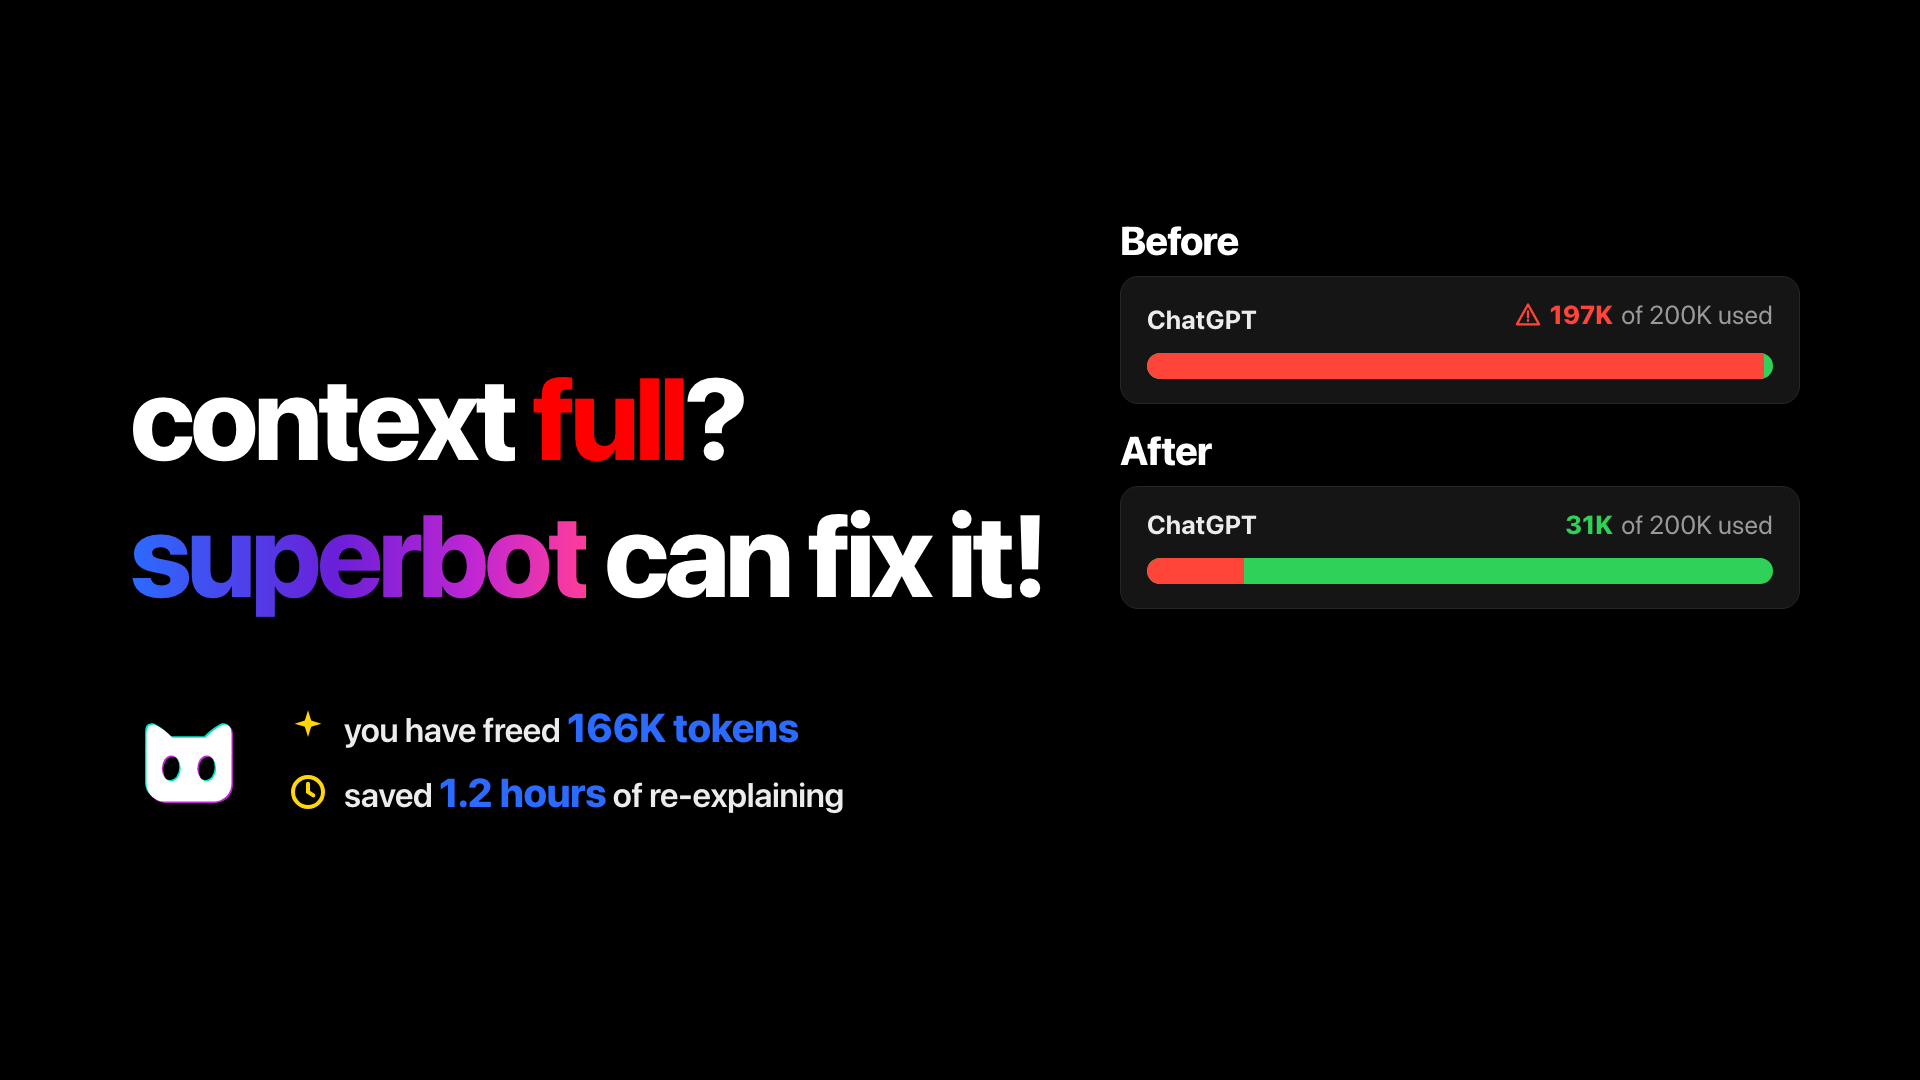
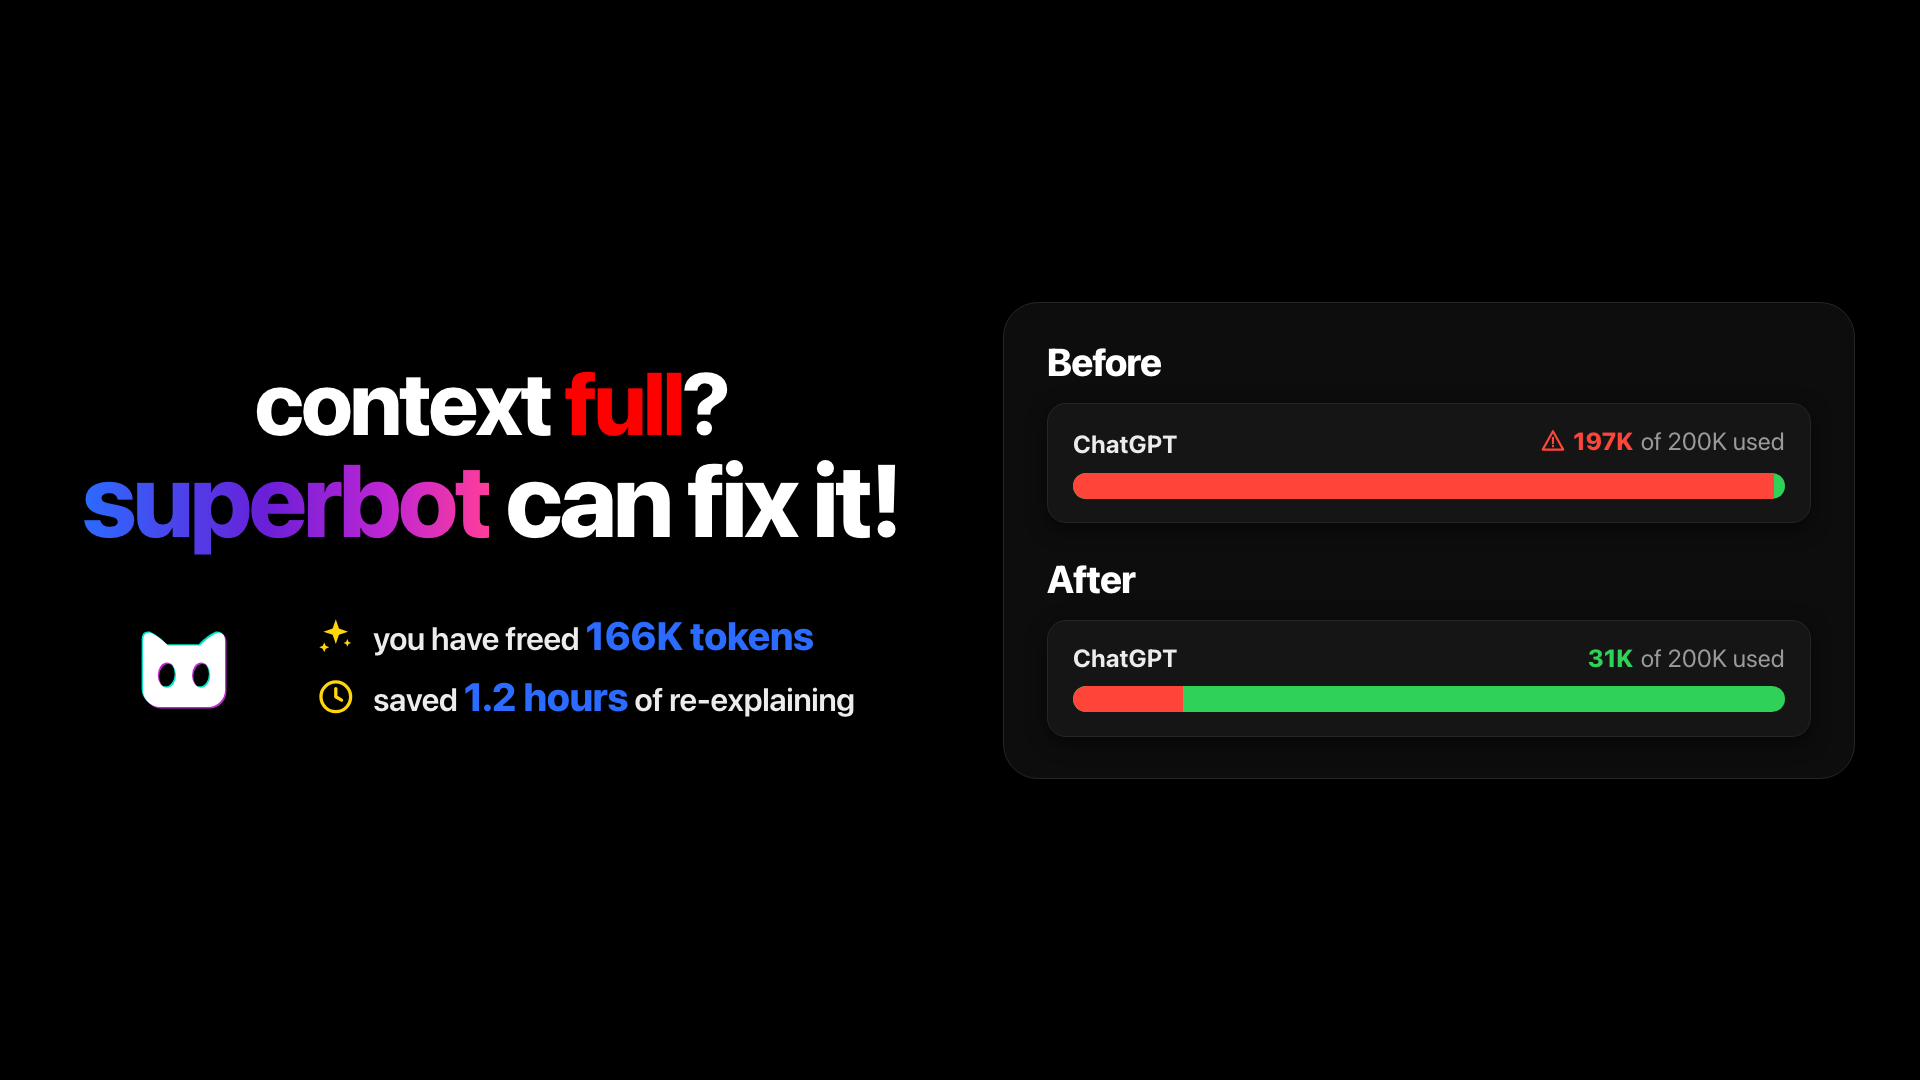
context-full-reveal animation: pixel-match the resting frame to the static context-full-poster
Rebuilt headline/card/stats markup and CSS to mirror ads-src/context-storage's own DOM structure and em-based formulas exactly, positioned from coordinates measured off the live poster (not approximated). Fixed two CSS specificity bugs found along the way (#l2's font-size losing to a compound selector; a nested flex>grid intrinsic-sizing quirk in the stats list) and added a scaled --u for the narrow-ratio stacked layout so the card doesn't overflow at 4:5/1:1/4:3. Verified: mean pixel diff against the static asset dropped from 4.7 to 0.57 (residual is sub-pixel anti-aliasing only).

diff --git a/animations/context-full-reveal-superbot-2f8b16e9/index.html b/animations/context-full-reveal-superbot-2f8b16e9/index.html
@@ -20,6 +20,10 @@
   --ui: "SF Pro Rounded", "SF Pro Display", -apple-system, system-ui, "Segoe UI", sans-serif;
   --storm-1: #2b6bff; --storm-2: #6a1fd8; --storm-3: #c026d3; --storm-4: #ff3d9a;
   --storm-x: linear-gradient(90deg, var(--storm-1) 0%, var(--storm-2) 45%, var(--storm-3) 75%, var(--storm-4) 100%);
+  /* the card/stats base unit: ads-src/context-storage's own --u resolves to
+     this exact value at 1920x1080 (measured off the live poster), so every
+     em below reproduces the poster's proportions pixel-for-pixel */
+  --u: 31.68px;
 }
 * { box-sizing: border-box; }
 html, body { margin: 0; height: 100%; background: #000; overflow: hidden; }
@@ -30,48 +34,70 @@ body { font-family: var(--ui); color: var(--fg); -webkit-font-smoothing: antiali
 /* the camera: one transform, computed per frame from story time */
 #cam { position: absolute; inset: 0; transform-origin: 0 0; will-change: transform; }
 
-/* ---------- headline (left) ---------- */
-#headline { position: absolute; left: 130px; top: 356px; width: 860px; }
-#headline .line { font-weight: 800; letter-spacing: -.04em; line-height: 1.04; font-size: 116px; color: #fff; white-space: nowrap; }
+/* ---------- headline (left) ----------
+   Position, font sizes and letter-spacing are the static context-full-poster's
+   own resolved values at 16:9 (measured off its live DOM: ads-src/context-storage,
+   fit.js sets .head's font-size to 88.31px at this frame), not approximated —
+   so the animation's resting frame is pixel-identical to the poster. */
+#headline { position: absolute; left: 65px; top: 357px; width: 852px; text-align: center; }
+#headline .line { width: max-content; margin: 0 auto; font-weight: 800; letter-spacing: -.035em; line-height: 1.02; color: #fff; white-space: nowrap; }
 #headline .pain { color: var(--pain); }
 #headline .brand { background-image: var(--storm-x); -webkit-background-clip: text; background-clip: text; color: transparent; }
-#l2 { margin-top: 16px; }
+#l1 { font-size: 88.31px; }
+#l2 { font-size: 102.44px; }
 
 /* ---------- stats row (left, below headline) ---------- */
-#statsrow { position: absolute; left: 130px; top: 700px; width: 760px; display: flex; align-items: center; gap: 40px; }
-#statsrow .face { width: 118px; height: 118px; flex: none; }
-#statsrow ul { list-style: none; margin: 0; padding: 0; display: grid; row-gap: 18px; }
-#statsrow li { display: flex; align-items: center; gap: 16px; font-size: 34px; font-weight: 600; color: var(--fg); letter-spacing: -.02em; }
-#statsrow .ico { width: 40px; height: 40px; flex: none; color: #ffd60a; display: grid; place-items: center; }
+#statsrow { position: absolute; left: 65px; top: 609px; width: 852px; display: flex; align-items: center; justify-content: center; gap: calc(var(--u) * 1.1); font-size: var(--u); }
+#statsrow .face { width: 3.6em; height: auto; flex: none; }
+/* the poster's own .stats ul (nested flex>grid) resolves 40px wider than its
+   li content and right-aligns them — a flex/grid intrinsic-sizing quirk of
+   its exact nesting, reproduced here directly (measured off the live poster)
+   rather than re-derived, since it's what actually ships */
+#statsrow ul { list-style: none; margin: 0; padding: 0; display: grid; row-gap: .5em; width: 578.5px; justify-content: end; }
+#statsrow li { display: flex; align-items: center; gap: .55em; line-height: 1.15; }
+#statsrow .ico { width: 1.25em; height: 1.25em; flex: none; color: #ffd60a; display: grid; place-items: center; }
 #statsrow .ico svg { width: 100%; height: 100%; }
 #statsrow .ico svg:not([fill]) { fill: currentColor; }
-#statsrow .big { font-weight: 800; color: var(--blue); font-size: 1.18em; }
+#statsrow .txt { font-size: 1.02em; font-weight: 600; color: var(--fg); letter-spacing: -.02em; white-space: nowrap; }
+#statsrow .big { font-weight: 800; color: var(--blue); font-size: 1.22em; }
+#statsrow .tail { color: var(--fg); }
 
-/* ---------- the before/after card (right) ---------- */
-#cardwrap { position: absolute; left: 1120px; top: 220px; width: 680px; display: grid; row-gap: 26px; }
-.card-half h2 { font-size: 40px; font-weight: 800; letter-spacing: -.03em; line-height: 1; margin: 0 0 16px; color: #fff; }
-.meter { background: #151515; border: 1px solid var(--line); border-radius: 18px; padding: 22px 26px 24px; box-shadow: 0 6px 22px rgba(0,0,0,.55); }
-.meta { display: flex; align-items: baseline; justify-content: space-between; gap: 20px; font-size: 26px; line-height: 1.2; margin-bottom: 18px; }
-.who { font-weight: 700; color: var(--fg); white-space: nowrap; }
-.used { color: var(--muted); white-space: nowrap; display: inline-flex; align-items: center; gap: 8px; }
-.used b { font-weight: 800; }
-#before-meter .used b { color: var(--red); }
-#after-meter .used b { color: var(--green); }
-.warn-ico { width: 28px; height: 28px; color: var(--red); opacity: 0; transition: none; }
-.bar { height: 26px; border-radius: 13px; overflow: hidden; background: var(--green); }
-.bar i { display: block; height: 100%; width: 0%; background: var(--red); border-radius: 13px 0 0 13px; }
-.note { margin-top: 14px; font-size: 22px; color: var(--muted); line-height: 1.2; opacity: 0; }
+/* ---------- the before/after card (right) ----------
+   Same principle: position and every internal em are the poster's own
+   .card/.half/.meter rules at its resolved --u, not hand-tuned numbers. */
+#cardwrap { position: absolute; left: 1003px; top: 302px; width: 852px; font-size: var(--u); background: var(--card); border: 1px solid var(--line); border-radius: 1.1em; padding: 1.25em 1.35em 1.3em; display: grid; row-gap: 1.15em; }
+#cardwrap .half h2 { font-size: 1.22em; font-weight: 800; letter-spacing: -.03em; line-height: 1; margin: 0 0 .55em; color: #fff; }
+#cardwrap .meter { background: #151515; border: 1px solid var(--line); border-radius: .6em; padding: .7em .8em .75em; box-shadow: 0 .18em .6em rgba(0,0,0,.55); }
+#cardwrap .meta { display: flex; align-items: baseline; justify-content: space-between; gap: 1em; font-size: .78em; line-height: 1.2; margin-bottom: .55em; }
+#cardwrap .who { font-weight: 700; color: var(--fg); white-space: nowrap; }
+#cardwrap .used { color: var(--muted); white-space: nowrap; display: inline-flex; align-items: center; gap: .3em; }
+#cardwrap .used b { font-weight: 800; }
+#before .used b { color: var(--red); }
+#after .used b { color: var(--green); }
+.warn-ico { width: 1.05em; height: 1.05em; color: var(--red); opacity: 0; transition: none; }
+#cardwrap .bar { height: .82em; border-radius: .41em; overflow: hidden; background: var(--green); }
+#cardwrap .bar i { display: block; height: 100%; width: 0%; background: var(--red); border-radius: .41em 0 0 .41em; }
 
 /* reduced motion: land on the fully-revealed final frame, no camera moves */
 @media (prefers-reduced-motion: reduce) {
   #cam { transform: none !important; }
-  #headline .line, #cardwrap, #statsrow, .warn-ico, .note { opacity: 1 !important; transform: none !important; }
+  #headline .line, #cardwrap, #statsrow, .warn-ico { opacity: 1 !important; transform: none !important; }
 }
 
 /* ---------- narrow ratios: stack headline / cards / stats instead of
    left-right (the gallery's ratio picker drives every animation, this one
    included) — top offsets stay put since the stage height never changes,
    only left/width/font-size follow --ar-w ---------- */
+html[data-ar]:not([data-ar="16x9"]) {
+  /* the card's --u is tuned to fill an 852px-wide 16:9 card; at a narrower
+     stacked width it has to shrink in the same proportion or the meta row
+     ("ChatGPT ... 197K of 200K used") wraps and blows out the card's height
+     into the stats row below it. Card content height is ~15.06 * --u
+     (measured at 16:9: 477px / 31.68px), so the stats row's top is computed
+     from it rather than fixed, or a taller ratio's bigger --u pushes the
+     card past a hardcoded offset. */
+  --u: min(31.68px, calc((var(--ar-w, 1920px) - 200px) / 26.89));
+}
 html[data-ar]:not([data-ar="16x9"]) #headline {
   left: 100px; top: 90px; width: calc(var(--ar-w, 1920px) - 200px);
 }
@@ -82,7 +108,13 @@ html[data-ar]:not([data-ar="16x9"]) #cardwrap {
   left: 100px; top: 350px; width: calc(var(--ar-w, 1920px) - 200px);
 }
 html[data-ar]:not([data-ar="16x9"]) #statsrow {
-  left: 100px; top: 780px; width: calc(var(--ar-w, 1920px) - 200px);
+  left: 100px; top: calc(350px + var(--u) * 15.06 + 50px); width: calc(var(--ar-w, 1920px) - 200px);
+}
+/* the 578.5px stats-ul quirk width is specific to the 16:9 pixel-match at
+   --u=31.68px; at any other font-size it would be the wrong width, so let it
+   auto-size normally outside 16:9 */
+html[data-ar]:not([data-ar="16x9"]) #statsrow ul {
+  width: auto; justify-content: normal;
 }
 </style>
 </head>
@@ -99,8 +131,10 @@ html[data-ar]:not([data-ar="16x9"]) #statsrow {
     </div>
 
     <!-- ============ the before/after card ============ -->
+    <!-- markup mirrors ads-src/context-storage/index.html's .card exactly
+         (.half#before/#after > h2 + .meter > .meta > .who/.used + .bar) -->
     <div id="cardwrap">
-      <div class="card-half">
+      <div class="half" id="before">
         <h2>Before</h2>
         <div class="meter" id="before-meter">
           <div class="meta">
@@ -113,7 +147,7 @@ html[data-ar]:not([data-ar="16x9"]) #statsrow {
           <div class="bar"><i id="before-fill"></i></div>
         </div>
       </div>
-      <div class="card-half">
+      <div class="half" id="after">
         <h2>After</h2>
         <div class="meter" id="after-meter">
           <div class="meta">
@@ -126,6 +160,7 @@ html[data-ar]:not([data-ar="16x9"]) #statsrow {
     </div>
 
     <!-- ============ stats + mark ============ -->
+    <!-- same icon SVG paths and .txt/.lead/.big/.tail structure as the poster -->
     <div id="statsrow">
       <svg class="face" viewBox="0 0 100 100" aria-hidden="true">
         <defs>
@@ -140,12 +175,12 @@ html[data-ar]:not([data-ar="16x9"]) #statsrow {
       </svg>
       <ul>
         <li id="stat-freed">
-          <span class="ico"><svg viewBox="0 0 24 24"><path d="M12 2l1.9 6.1L20 10l-6.1 1.9L12 18l-1.9-6.1L4 10l6.1-1.9z"/></svg></span>
-          <span>you have freed <span class="big">166K tokens</span></span>
+          <span class="ico"><svg viewBox="0 0 24 24" aria-hidden="true"><path d="M12 2l1.9 5.6L19.5 9.5l-5.6 1.9L12 17l-1.9-5.6L4.5 9.5l5.6-1.9L12 2zM5 16l.9 2.1L8 19l-2.1.9L5 22l-.9-2.1L2 19l2.1-.9L5 16zM19 14l.7 1.6 1.6.7-1.6.7L19 18.6l-.7-1.6-1.6-.7 1.6-.7L19 14z"/></svg></span>
+          <span class="txt"><span class="lead">you have freed</span> <b class="big">166K tokens</b></span>
         </li>
         <li id="stat-saved">
-          <span class="ico"><svg viewBox="0 0 24 24" fill="none" stroke="currentColor" stroke-width="2.4" stroke-linecap="round"><circle cx="12" cy="12" r="9"/><path d="M12 7v5l3.2 2"/></svg></span>
-          <span>saved <span class="big">1.2 hours</span> of re-explaining</span>
+          <span class="ico"><svg viewBox="0 0 24 24" aria-hidden="true"><circle cx="12" cy="12" r="9" fill="none" stroke="currentColor" stroke-width="2"/><path d="M12 7v5l3.5 2" fill="none" stroke="currentColor" stroke-width="2" stroke-linecap="round" stroke-linejoin="round"/></svg></span>
+          <span class="txt"><span class="lead">saved</span> <b class="big">1.2 hours</b> <span class="tail">of re-explaining</span></span>
         </li>
       </ul>
     </div>
